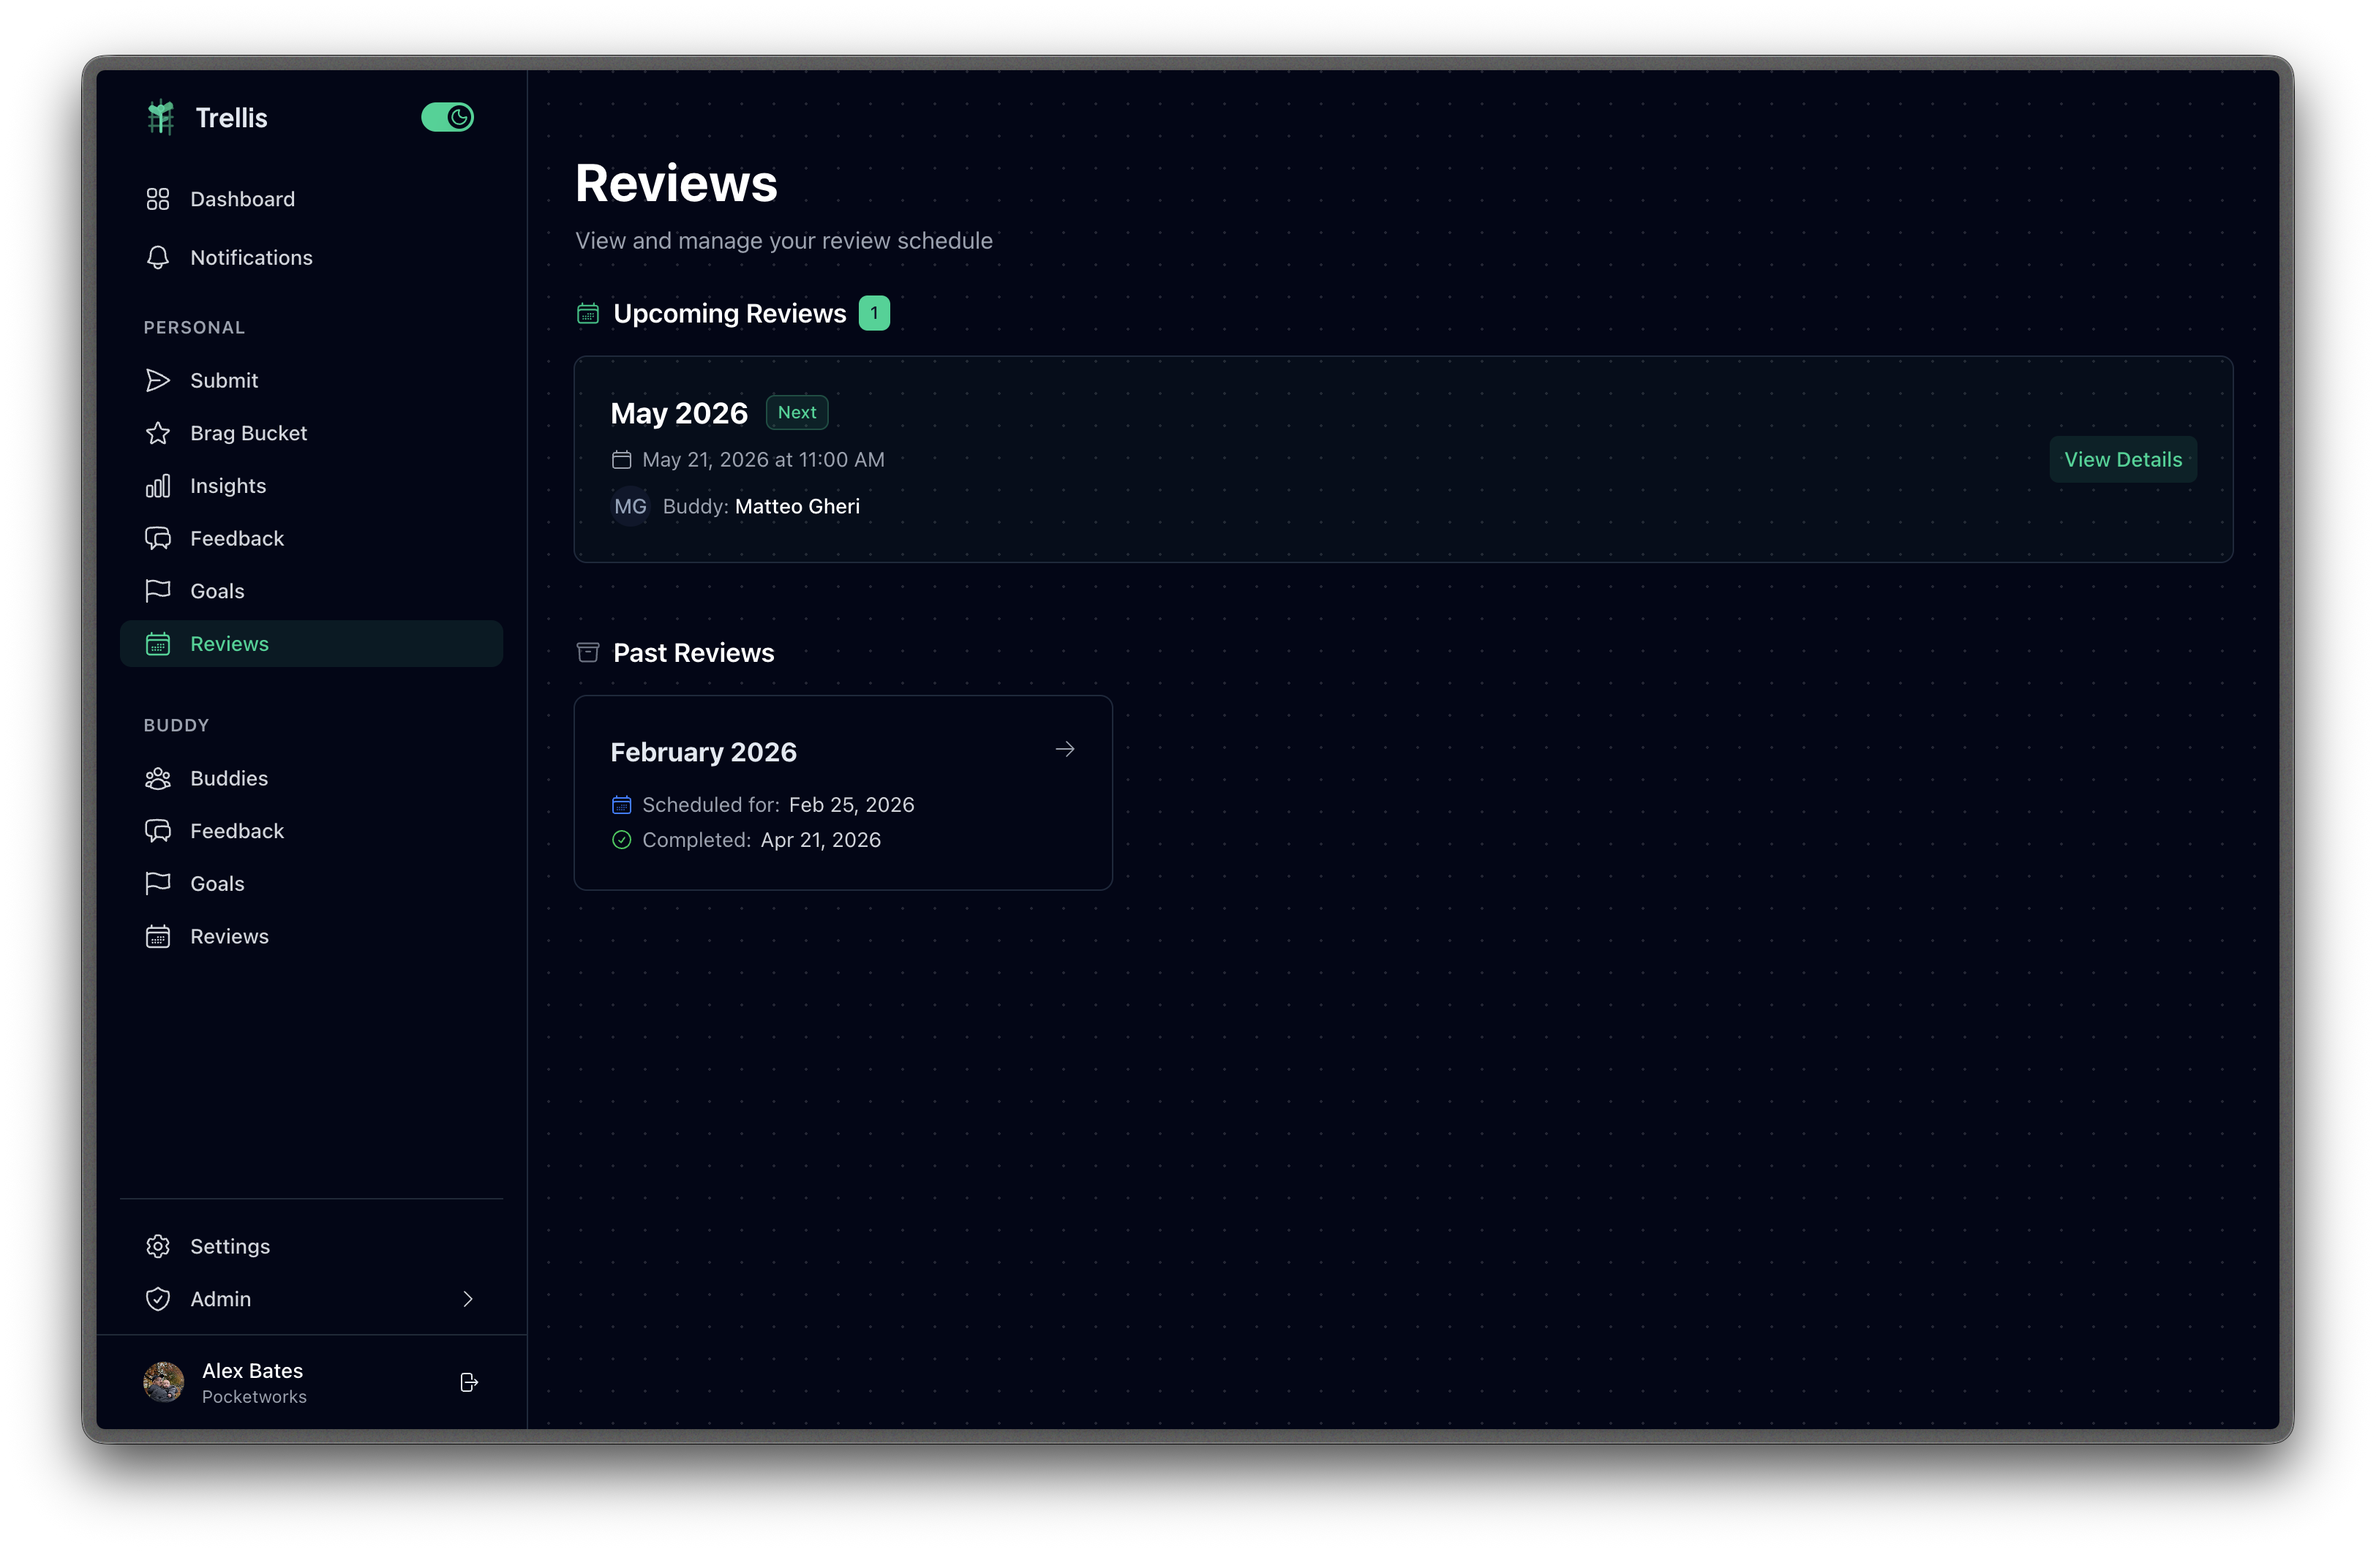
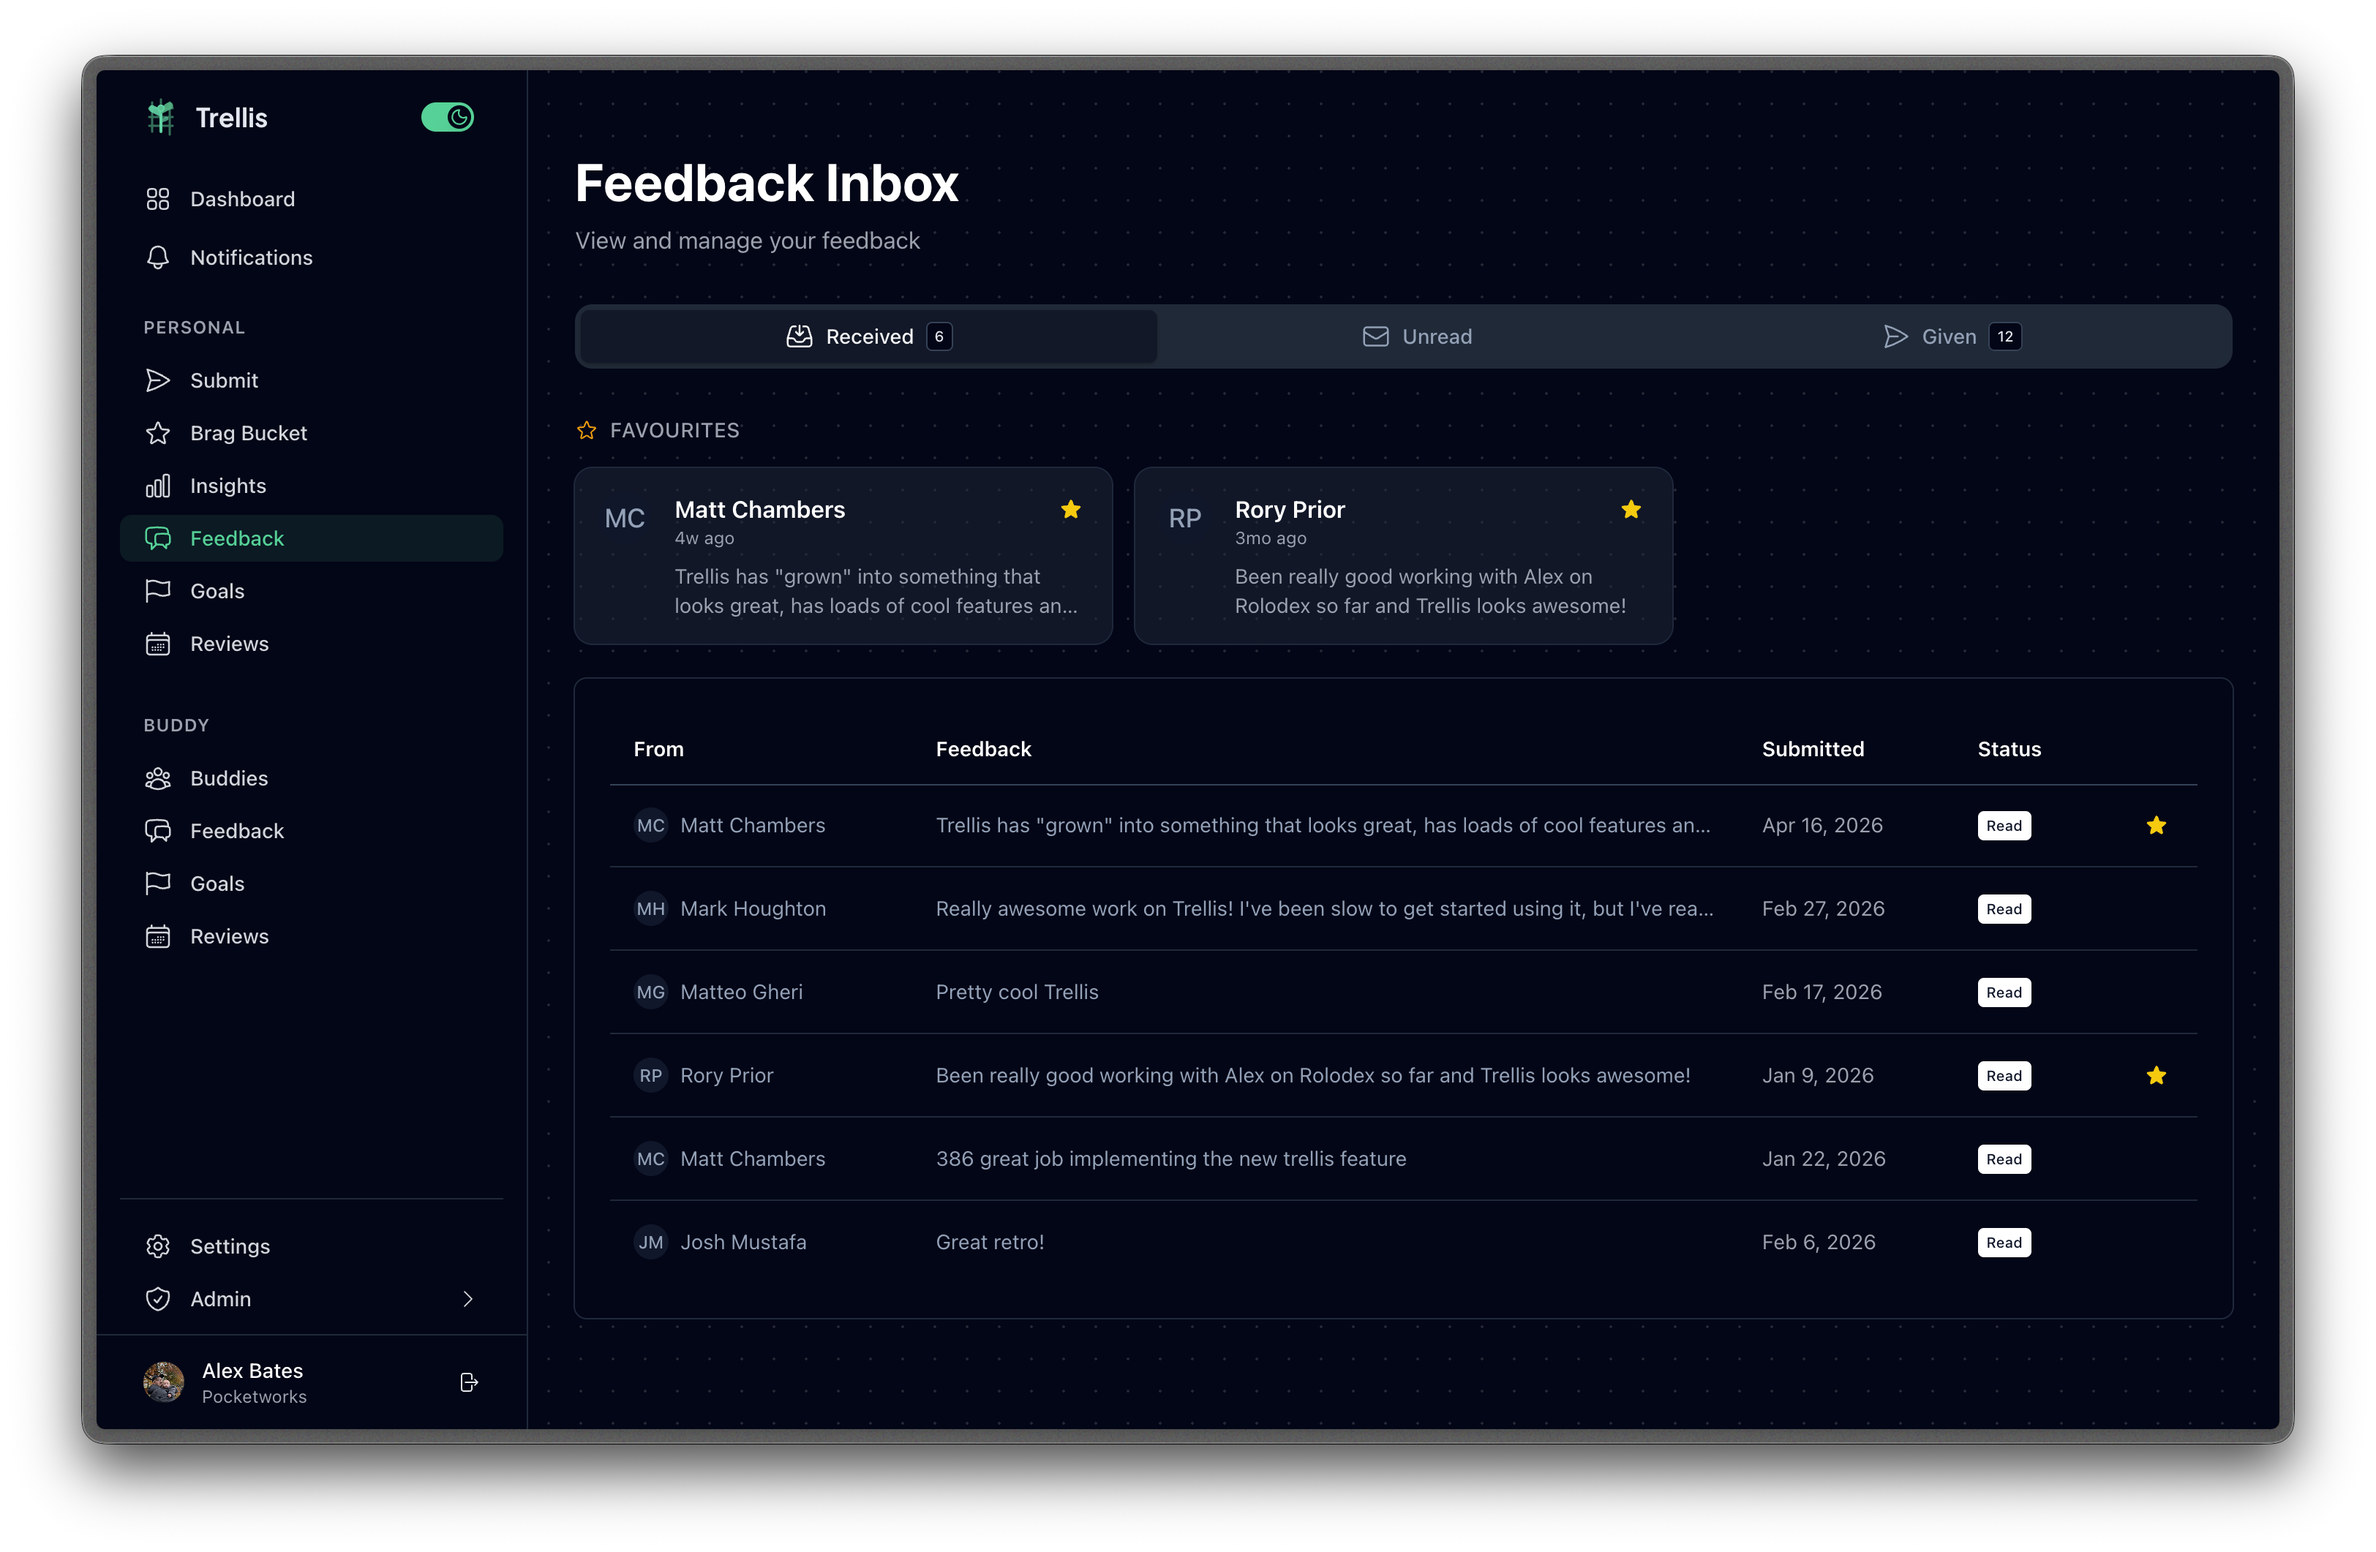
feat(marketing): remap feature screenshots and drop double-frame
Screenshots are CleanShot @2x captures with their own window chrome -
the wrapping border/shadow was duplicating that. Showcase image now
renders bare.

diff --git a/app/components/marketing/FeatureShowcase.vue b/app/components/marketing/FeatureShowcase.vue
@@ -78,13 +78,10 @@ const activeTab = computed(() => tabs.find((t) => t.key === active.value)!);
         </button>
       </div>
 
-      <div class="mt-10 rounded-2xl border border-white/10 overflow-hidden bg-white/[0.02]">
-        <div class="p-6 md:p-10">
-          <p class="text-white/80 text-lg max-w-3xl mx-auto text-center">{{ activeTab.copy }}</p>
-          <div class="mt-8 rounded-lg overflow-hidden border border-white/10 shadow-2xl">
-            <img :src="activeTab.image" :alt="activeTab.alt" class="w-full h-auto">
-          </div>
-        </div>
+      <p class="mt-10 text-white/80 text-lg max-w-3xl mx-auto text-center">{{ activeTab.copy }}</p>
+
+      <div class="mt-8">
+        <img :src="activeTab.image" :alt="activeTab.alt" class="w-full h-auto">
       </div>
     </div>
   </section>
